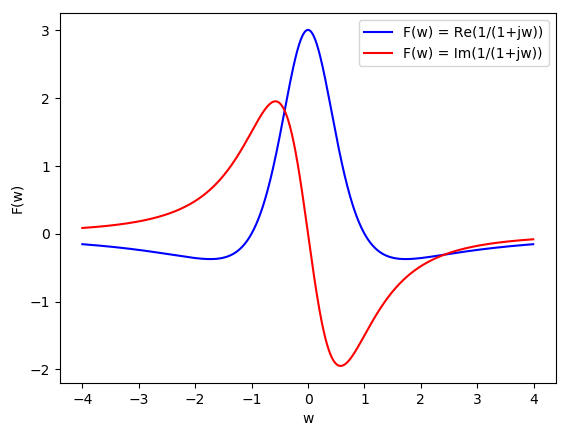
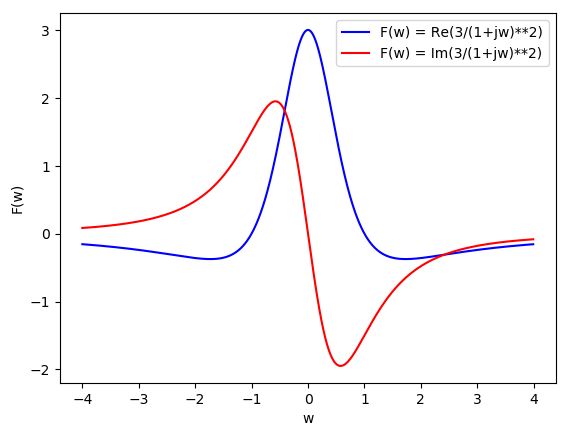
29 Done (2/2).
Added all missing subtasks, namely:
+ Niquest-Plot
+ F(0) estimation

Changed region(s): [[0.5975, 0.0596, 0.9561, 0.1491]]

diff --git a/Uebungsaufgaben/A29.tex b/Uebungsaufgaben/A29.tex
@@ -8,6 +8,7 @@
 		\includegraphics[scale = 0.7]{A29_graphPlot.png}\\
 		\\
 		Sei weiter $g(t) = t\cdot e^{-2t}, t\ge 0$ und $h(t)=e^{-2t}, t\ge 0$.\\
+		Da der Faktor $t$ in der Transformierten $F(\omega)$ nicht mehr auftaucht, ist die Transformierte von $f(t)$ der von Aufgabe 29 ähnlich. Insbesondere wird $F(\omega)$ durch den Faktor 3 gestreckt. Daher gilt die Schätzung: $F(0) = 3$\\
 		Dann gilt:
 		$$ f(t) = 3\cdot g(t) = 3t \cdot h(t),\quad t\ge 0$$
 		Dann gilt nach den tabellierten Fouriertransformierten vom Arbeitsblatt das folgende:\\
@@ -16,10 +17,10 @@
 			\hline
 			1		&	$f(t)$	&	$3 \cdot g(t)$	&	$3\cdot G(\omega)$\\
 			5		&	$g(t)$	&	$t \cdot h(t)$	&	$j\cdot \frac{d}{d\omega}H(\omega)$\\
-			D		&	$h(t)$	&	$e^{-t}$		&	$\frac{1}{a+j\omega}$
+			D		&	$h(t)$	&	$e^{-t}$		&	$\frac{1}{1+j\omega}$
 		\end{tabular}\\
 		Das heißt für die Fouiertransformierte $F(\omega)$ gilt:
-		$$F(\omega) = 3\cdot \left(j\cdot \frac{d}{d\omega}\left(1+j\omega\right)^{-1}\right) = 3\left(j^2\cdot -\left(1+j\omega\right)^{-2}\right) = \frac{3}{(1+jw)^2}$$
+		$$F(\omega) = 3\cdot \left(j\cdot \frac{d}{d\omega}\left(1+j\omega\right)^{-1}\right) = 3\left(-\left(1+j\omega\right)^{-2}\cdot j^2\right) = \frac{3}{(1+jw)^2}$$
 		Mit folgenden Graphen:\\
 		\begin{figure}[h]
 			\centering
@@ -30,5 +31,10 @@
 			\centering
 			\caption{Plot des Betrags (blau) und des Winkels (rot) in [$\pi$]}
 			\includegraphics[width= 0.85\textwidth]{A29_plot-abs-angle.png}
+		\end{figure}
+		\begin{figure}
+			\centering
+			\caption{Niquest-Plot von $F(\omega)$ mit $\omega\in[-4,4]$}
+			\includegraphics[width=\textwidth]{A29_niquest-plot.png}
 		\end{figure}
 \end{document}

diff --git a/python/a29.py b/python/a29.py
@@ -1,0 +1,63 @@
+import matplotlib
+matplotlib.use('TkAgg')
+from matplotlib import pyplot as plt
+from numpy import *
+
+xf = []
+yf = []
+xF = []
+yFr = []
+yFi = []
+yFb = []
+yFw = []
+
+min_xf = 0.0
+max_xf = 4.0
+
+min_xF = -4.0
+max_xF = 4.0
+
+tf = min_xf
+tF = min_xF
+for i in range(0, 1000):
+    xf.append(tf)
+    xF.append(tF)
+
+    yf.append(3 * tf * exp(-2 * tf))
+    yFr.append((complex(3,0)/ complex(1,tF)**2).real)
+    yFi.append((complex(3,0)/ complex(1,tF)**2).imag)
+    yFb.append(abs(complex(3,0)/ complex(1,tF)**2))
+    yFw.append(angle(complex(3,0)/ complex(1,tF)**2)/pi)
+
+    tf = tf + (max_xf - min_xf)/1000
+    tF = tF + (max_xF - min_xF)/1000
+
+plt.plot(xf, yf, 'b-', label = 'f(t) = 3t*exp(-2t)')
+plt.xlabel('t')
+plt.ylabel('f(t)')
+plt.legend()
+#plt.savefig('A29_graphPlot.png', bbox_inches='tight')
+plt.show()
+
+plt.plot(xF, yFr, 'b', label='F(w) = Re(3/(1+jw)**2)')
+plt.plot(xF, yFi, 'r', label='F(w) = Im(3/(1+jw)**2)')
+plt.xlabel('w')
+plt.ylabel('F(w)')
+plt.legend()
+#plt.savefig('A29_plot-Real-Imag.png', bbox_inches='tight')
+plt.show()
+
+plt.plot(xF, yFb, 'b', label='F(w) = |3/(1+jw)**2|')
+plt.plot(xF, yFw, 'r', label='F(w) = angle(3/(1+jw)**2)')
+plt.xlabel('w')
+plt.ylabel('F(w)')
+plt.legend()
+#plt.savefig('A29_plot-abs-angle.png', bbox_inches='tight')
+plt.show()
+
+plt.plot(yFr, yFi, 'b-', label='F(w)=3/(1+jw)**2)')
+plt.xlabel('Re(F(w))')
+plt.ylabel('Im(F(w))')
+plt.legend()
+plt.savefig('A29_niquest-plot.png', bbox_inches='tight')
+plt.show()

diff --git a/Uebungsaufgaben/A28.tex b/Uebungsaufgaben/A28.tex
@@ -4,7 +4,7 @@
 
 \begin{document}
 	\section*{Übungsaufgabe 28:}
-		Sei $f(t) = e^{-at}$ mit $a = 1$ und $F(\omega) =  \frac{1}{1+j\omega}$.
+		Sei $f(t) = e^{-at}$ mit $a = 1$ und $F(\omega) = \frac{1}{1+j\omega}$.
 		
 		Dazu gehören folgende Graphen:\\
 		\includegraphics[width=\textwidth]{A28_graphPlot.png}
